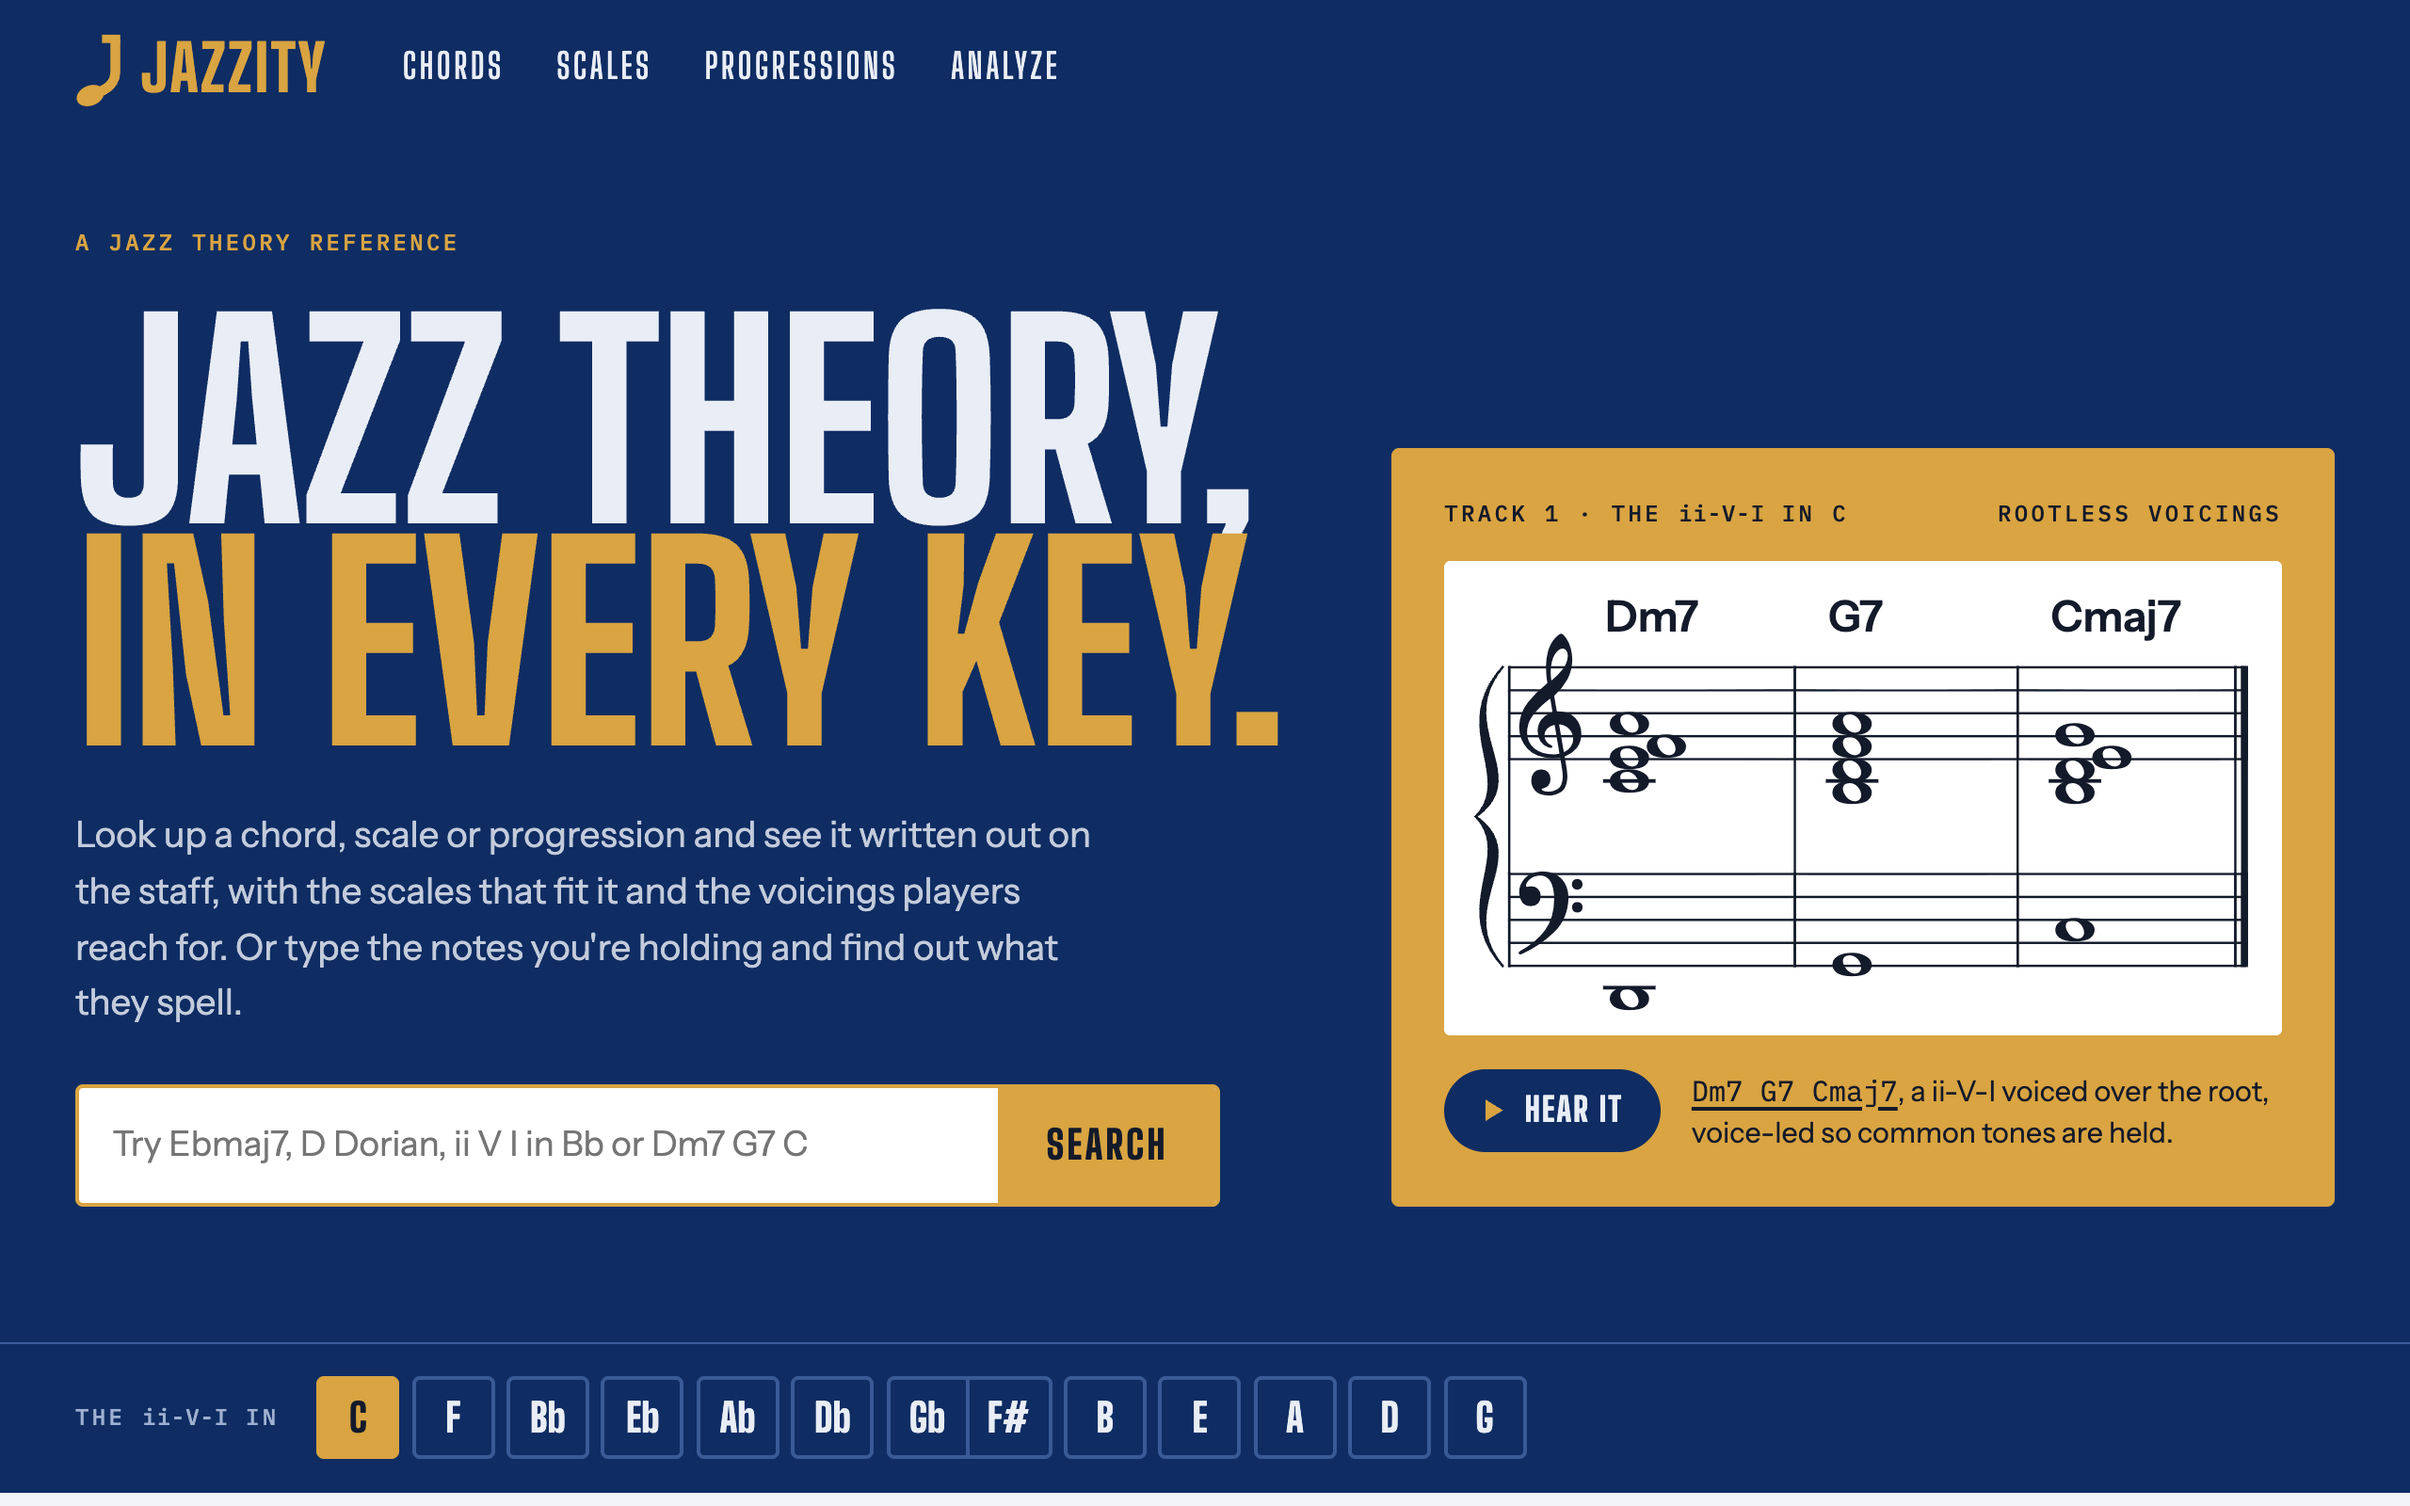
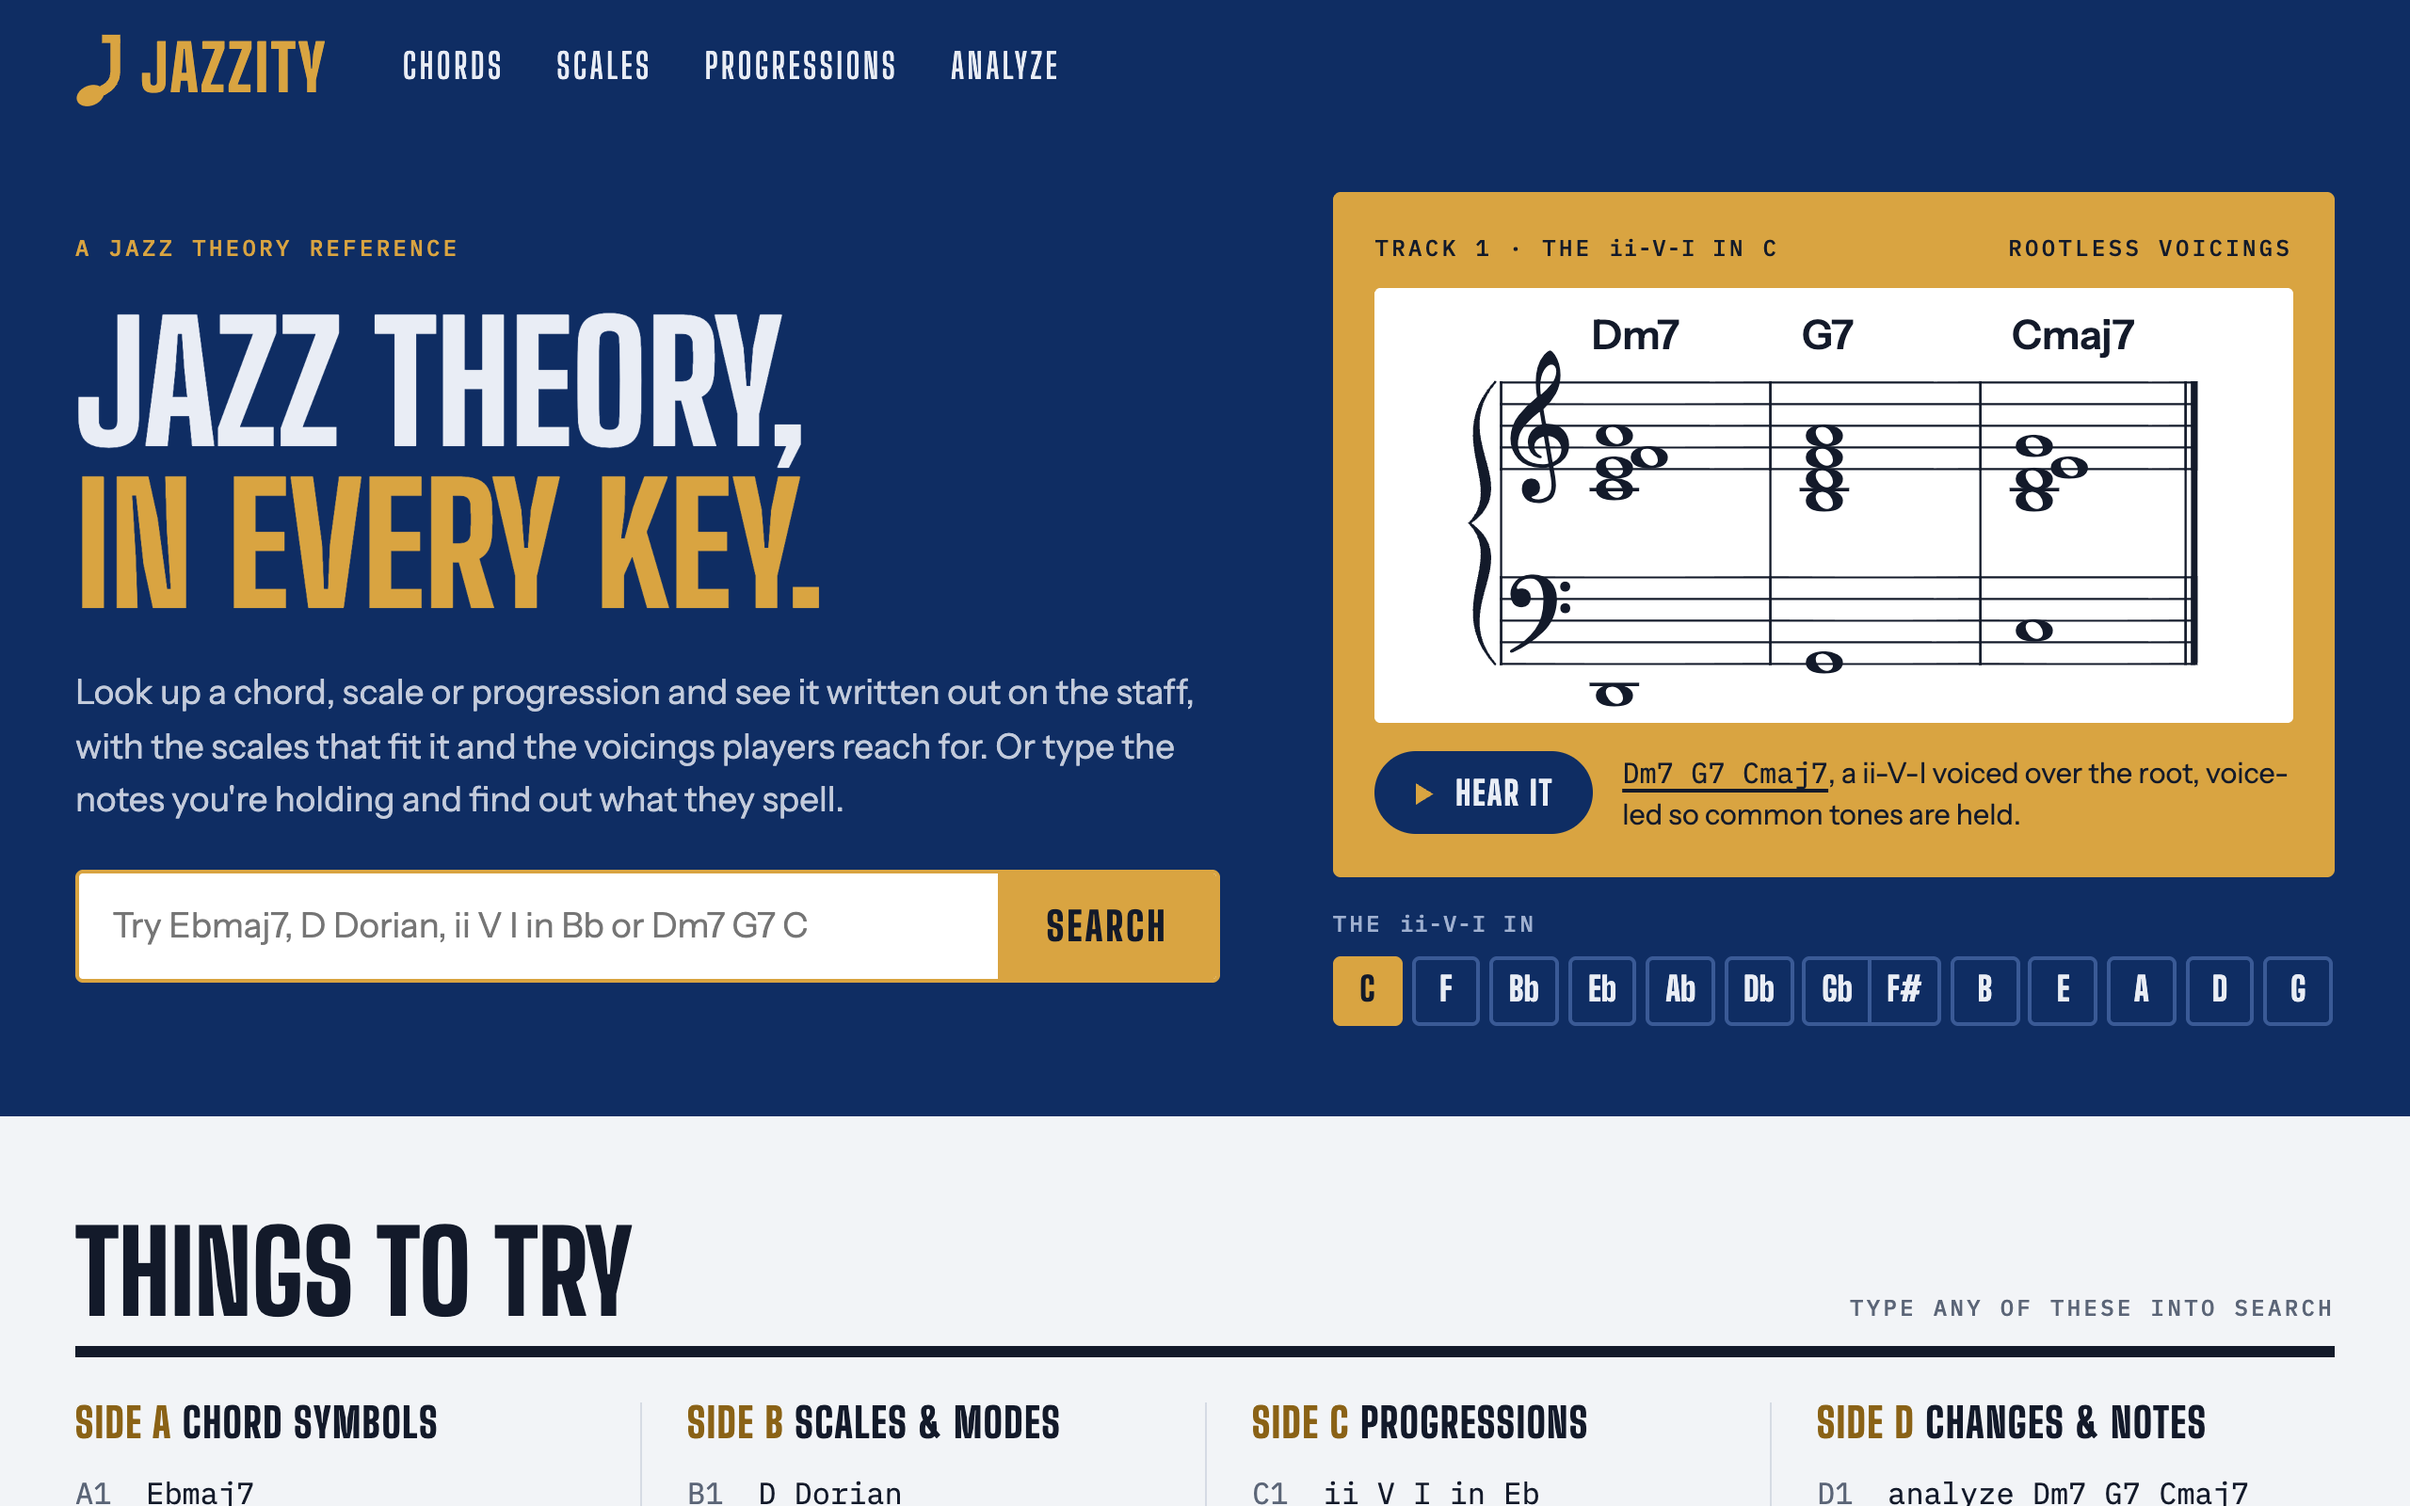
Shorten the home page hero so what follows shows on a laptop screen
The headline is set smaller, in two lines with room between them, and
the keys for the featured ii-V-I move from their own strip into the
column beside it, under the brass panel, a smaller row on wide screens.
The columns are centred against each other, so there's no gap above
the panel.

diff --git a/app/assets/stylesheets/application.css b/app/assets/stylesheets/application.css
@@ -591,11 +591,6 @@ a:hover {
   border-radius: 0 var(--radius) var(--radius) 0;
 }
 
-.band-keys {
-  padding-block: 1.1rem;
-  border-top: 1px solid var(--band-rule);
-}
-
 /* Modes of a scale, under its title */
 .band .mode-tabs {
   margin: 0;
@@ -1633,26 +1628,51 @@ a:hover {
 
 /* Home */
 
+/* Short enough on a laptop screen to show what follows: the headline and
+   search on the left, the featured progression and its keys on the right. */
 .hero {
   max-width: var(--measure);
   margin: 0 auto;
-  padding: clamp(1.5rem, 4vw, 3rem) var(--gutter) clamp(2.5rem, 6vw, 4.5rem);
+  padding: clamp(1rem, 2.5vw, 1.75rem) var(--gutter) clamp(2rem, 4vw, 3rem);
   display: grid;
   grid-template-columns: minmax(0, 1fr);
-  gap: 3rem;
-  align-items: end;
+  gap: 2.5rem 3.5rem;
+  align-items: center;
 }
 
 @media (min-width: 64rem) {
   .hero {
-    grid-template-columns: minmax(0, 1.3fr) minmax(0, 1fr);
+    grid-template-columns: minmax(0, 1.15fr) minmax(0, 1fr);
   }
 }
 
 .hero-text {
   display: grid;
   grid-template-columns: minmax(0, 1fr);
-  gap: 1.75rem;
+  gap: 1.4rem;
+}
+
+.hero-side {
+  display: grid;
+  gap: 1.1rem;
+}
+
+/* Beside the featured progression, the keys are smaller to fit one row. */
+@media (min-width: 64rem) {
+  .hero-side .key-picker {
+    gap: 0.6rem 1rem;
+  }
+
+  .hero-side .key-picker ol {
+    gap: 0.3rem;
+  }
+
+  .hero-side .key-picker a {
+    min-width: 2.3rem;
+    height: 2.3rem;
+    padding-inline: 0.3rem;
+    font-size: 1.1rem;
+  }
 }
 
 .hero .eyebrow {
@@ -1660,14 +1680,14 @@ a:hover {
 }
 
 .hero-title {
-  font: 800 clamp(3.75rem, 11vw, 10rem)/0.84 var(--font-display);
+  font: 800 clamp(3.5rem, 6.8vw, 6.5rem)/0.98 var(--font-display);
   text-transform: uppercase;
   letter-spacing: -0.005em;
 }
 
 .hero-lede {
-  max-width: 34rem;
-  font-size: 1.2rem;
+  max-width: 38rem;
+  font-size: 1.15rem;
   color: var(--band-text);
 }
 
@@ -1676,7 +1696,7 @@ a:hover {
 }
 
 .hero-search input[type="search"] {
-  padding: 1rem 1.1rem;
+  padding: 0.85rem 1.1rem;
   font-size: 1.15rem;
 }
 
@@ -1688,9 +1708,9 @@ a:hover {
 /* The featured progression, on a brass panel like a sticker on the sleeve. */
 .hero-figure {
   display: grid;
-  gap: 1.1rem;
+  gap: 0.9rem;
   margin: 0;
-  padding: clamp(1rem, 3vw, 1.75rem);
+  padding: clamp(1rem, 2.5vw, 1.4rem);
   border-radius: var(--radius);
   background: var(--brass);
   color: var(--on-brass);
@@ -1707,13 +1727,13 @@ a:hover {
 }
 
 .hero-figure-staff {
-  padding: 1rem 0.75rem 0.5rem;
+  padding: 0.75rem 0.75rem 0.25rem;
   border-radius: 3px;
   background: var(--surface);
 }
 
 .hero-figure .staff svg {
-  max-width: calc(var(--staff-width) * 1.4);
+  max-width: calc(var(--staff-width) * 1.15);
   margin-inline: auto;
 }
 
